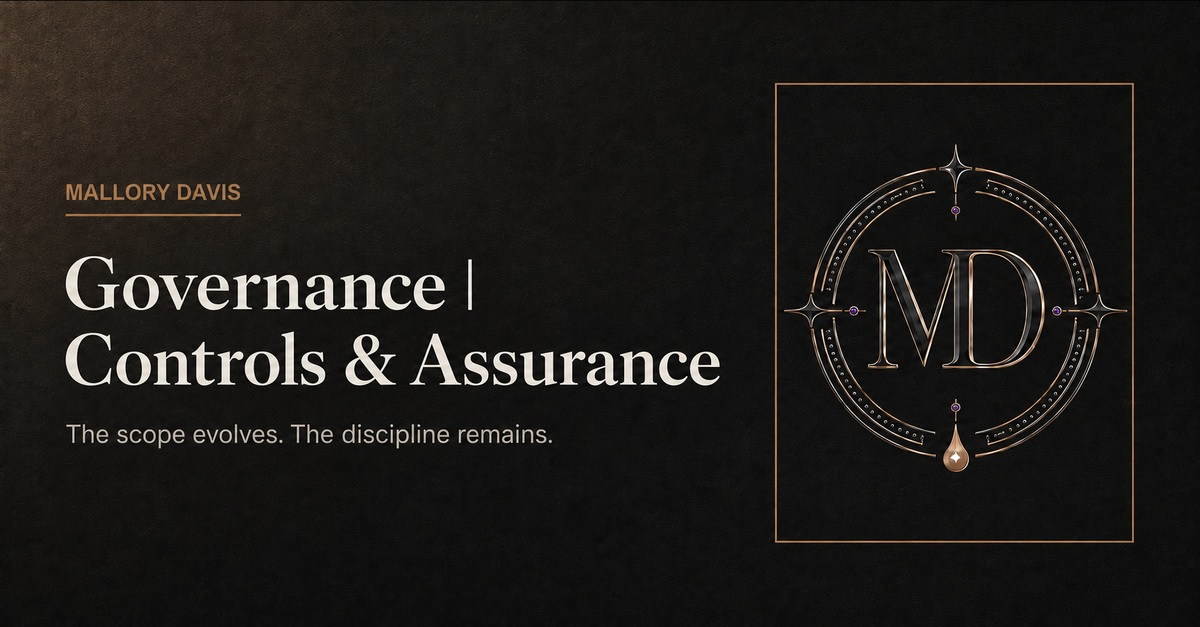
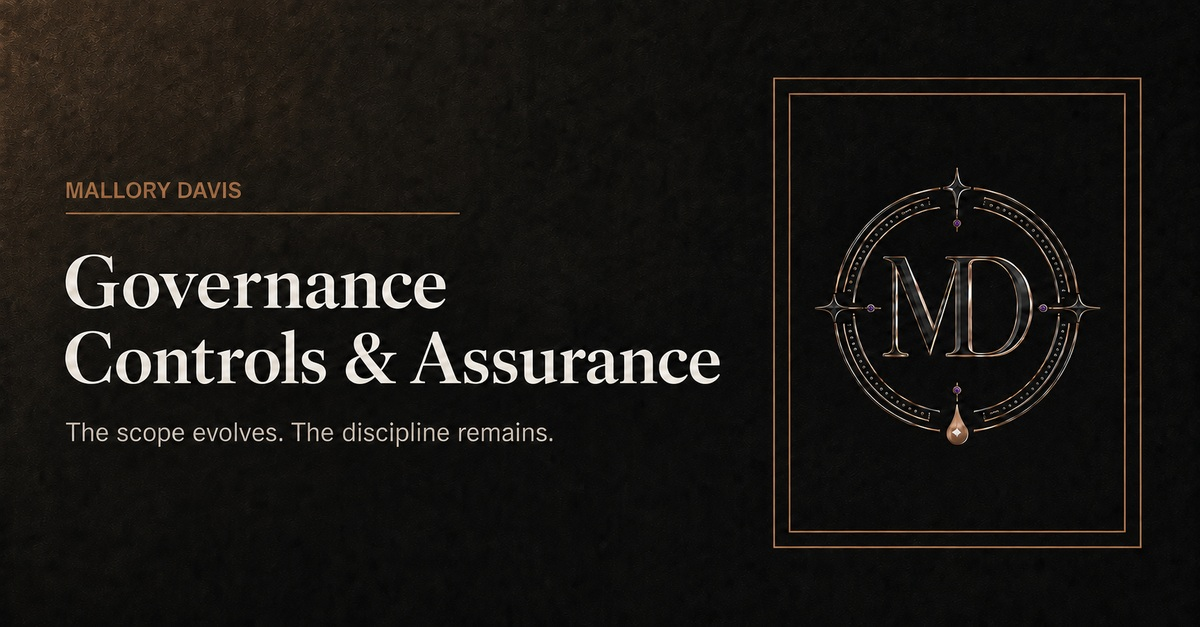
Finalize social card framing and title punctuation

diff --git a/index.html b/index.html
@@ -4,16 +4,16 @@
   <meta charset="UTF-8" />
   <meta name="viewport" content="width=device-width, initial-scale=1.0" />
 
-  <title>Mallory Davis | Governance, Controls &amp; Assurance</title>
+  <title>Mallory Davis: Governance | Controls &amp; Assurance</title>
   <meta
     name="description"
     content="Mallory Davis brings structure to complex work through clear governance, disciplined controls, and evidence that supports accountable decisions."
   />
-  <meta property="og:title" content="Mallory Davis | Governance, Controls &amp; Assurance" />
+  <meta property="og:title" content="Mallory Davis: Governance | Controls &amp; Assurance" />
   <meta property="og:description" content="Structure for complex work through clear governance, disciplined controls, and evidence that supports accountable decisions." />
   <meta property="og:type" content="website" />
   <meta property="og:url" content="https://mallorydavis.github.io/" />
-  <meta property="og:image" content="https://mallorydavis.github.io/assets/images/mallory-davis-linkedin-featured.jpg?v=20260904-3" />
+  <meta property="og:image" content="https://mallorydavis.github.io/assets/images/mallory-davis-linkedin-featured.jpg?v=20260904-4" />
   <meta property="og:image:width" content="1200" />
   <meta property="og:image:height" content="627" />
   <meta property="og:image:alt" content="Mallory Davis. Governance, Controls and Assurance. Evidence as infrastructure. Security as culture." />
@@ -49,7 +49,7 @@
     <section class="hero home-hero">
       <div class="hero-content">
         <p class="eyebrow">Mallory Davis</p>
-        <p class="home-descriptor">Governance, Controls &amp; Assurance</p>
+        <p class="home-descriptor">Governance | Controls &amp; Assurance</p>
         <h1><span class="hero-line">The scope evolves.</span><span class="hero-line">The discipline remains.</span></h1>
         <p class="hero-copy">
           I bring structure to complex work through clear governance, disciplined controls, and evidence that supports accountable decisions.
